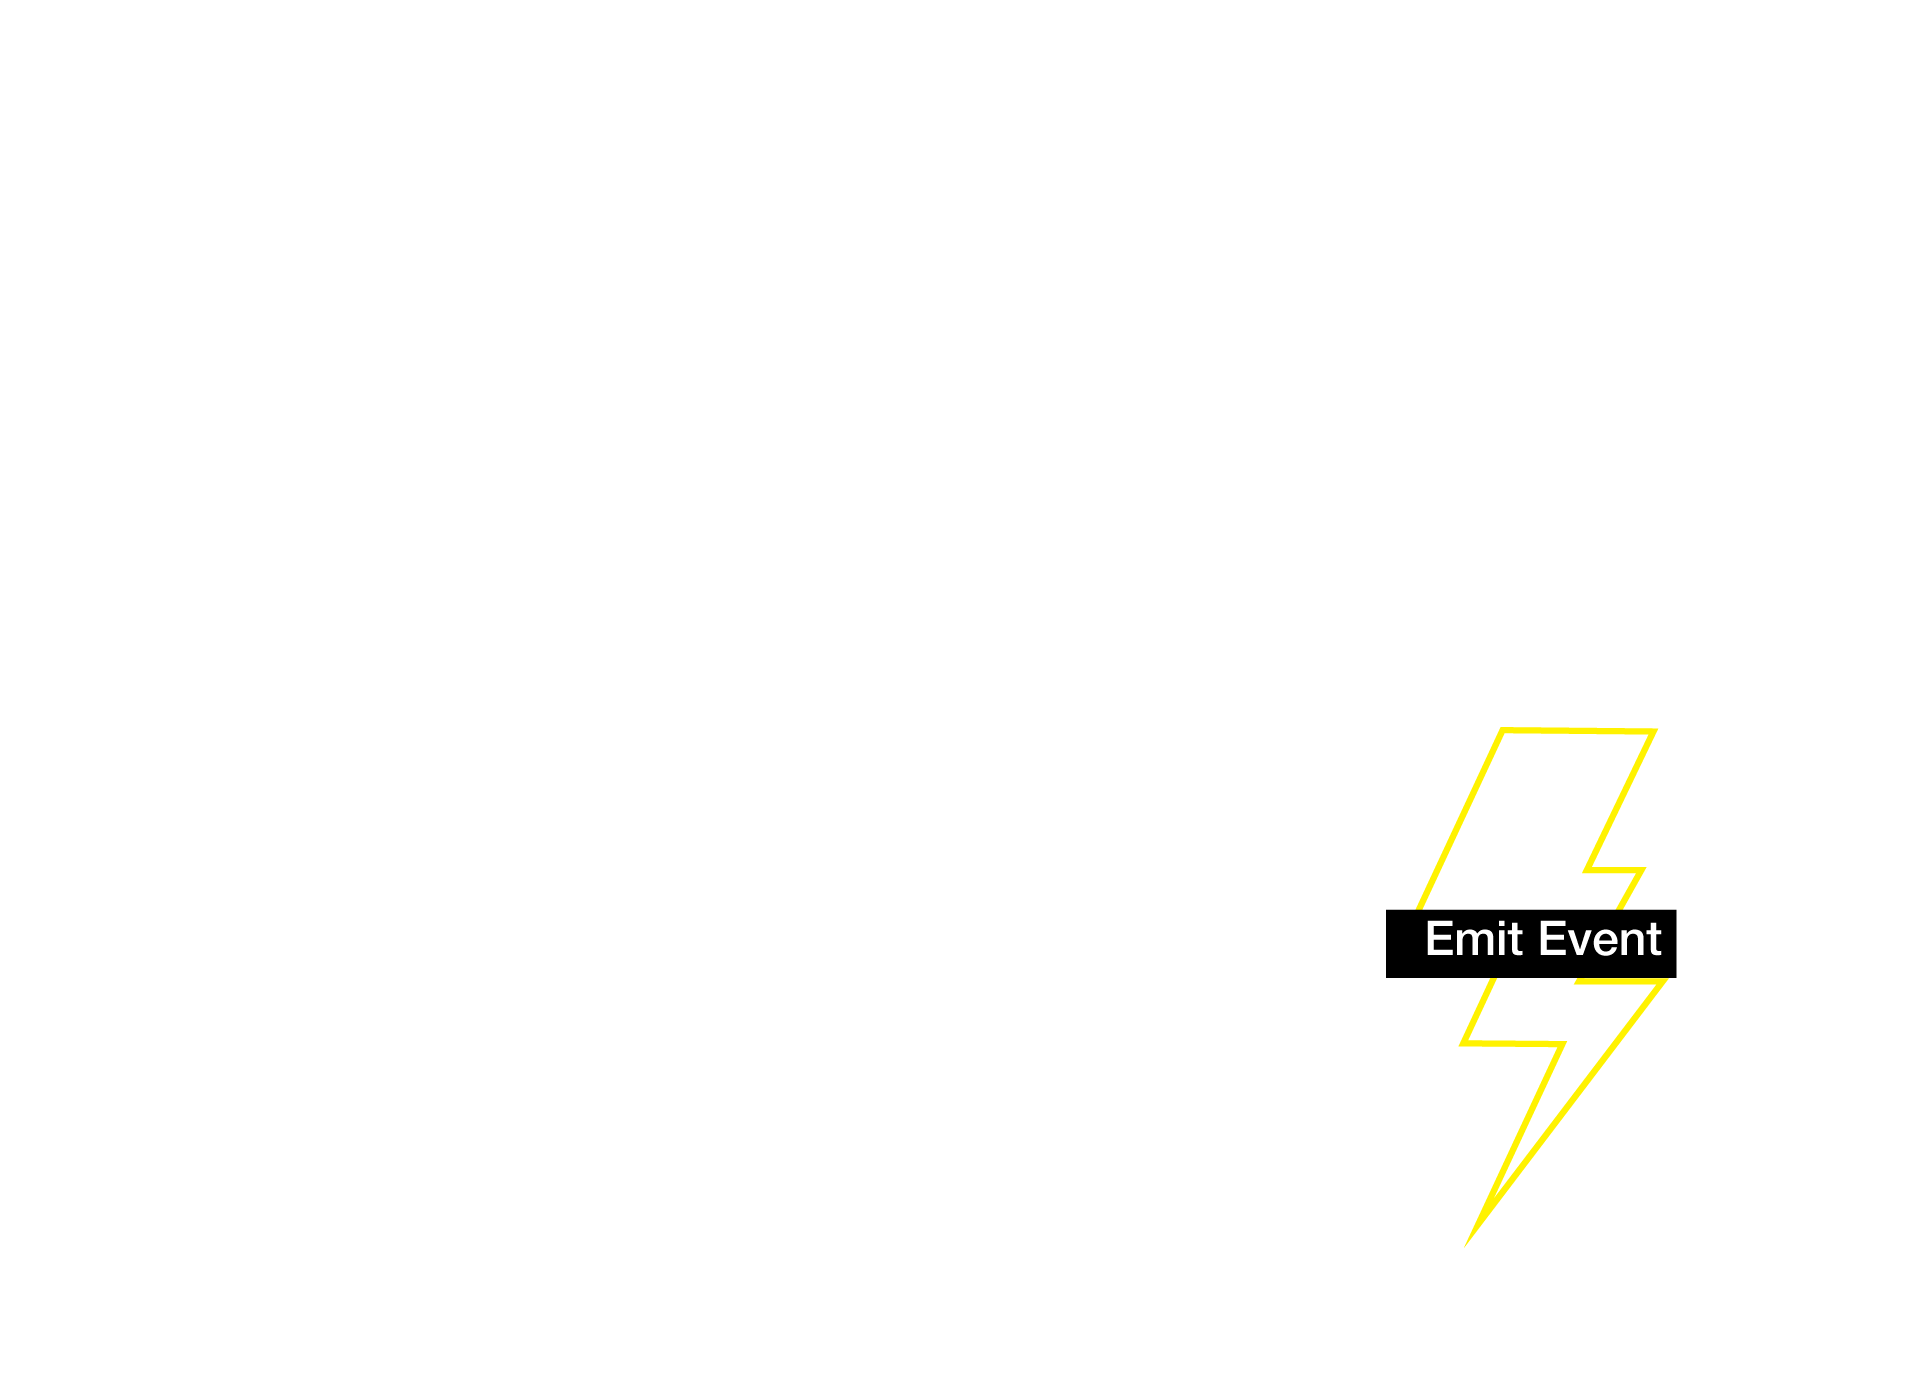
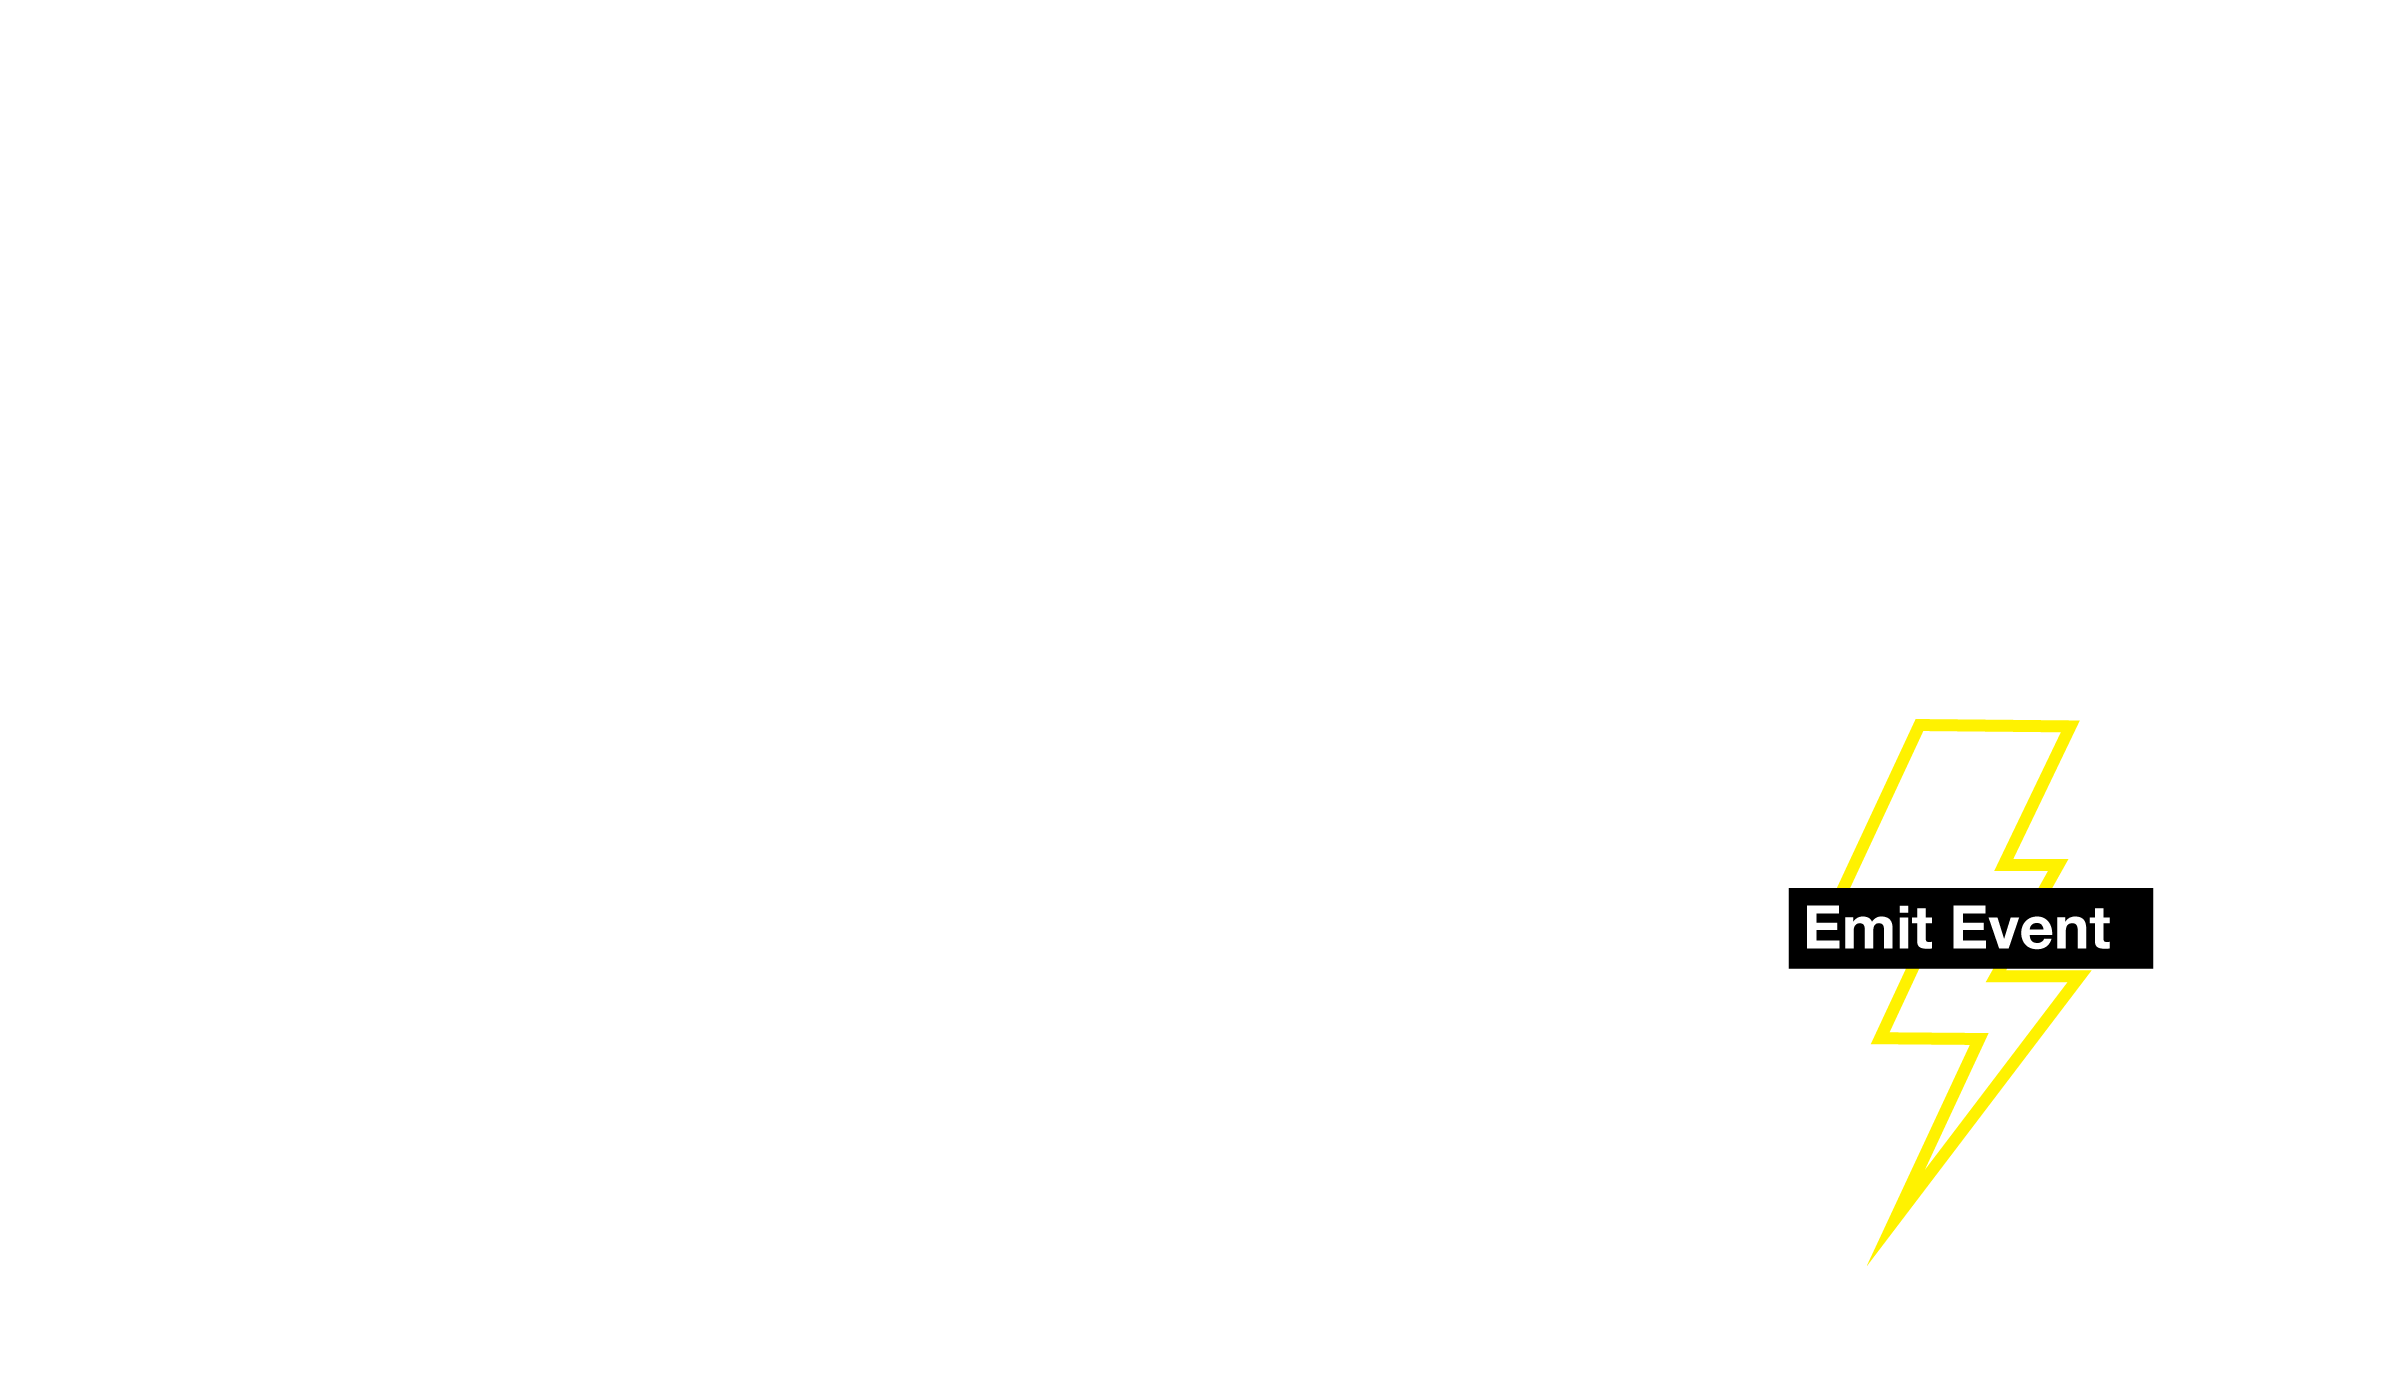
updated complex forms slides

Changed region(s): [[0.7188, 0.4914, 0.9062, 0.8907]]

diff --git a/ng-meetup/2018/03/ngrx-complex-forms/index.html b/ng-meetup/2018/03/ngrx-complex-forms/index.html
@@ -62,12 +62,12 @@
 
             <section data-background="#000">
                 <h2>Container - Presentation</h2>
-                <img src="images/Container-4.png" class="plain">
+                <img src="images/Container.png" class="plain">
             </section>
 
             <section data-background="#000">
                 <h2>NgRx Entity</h2>
-                <img src="images/NGRXEntity-2.png" class="plain">
+                <img src="images/NGRXEntity.png" class="plain">
             </section>
 
             <section data-background="#000">
@@ -116,7 +116,7 @@
 
             <section>
                 <h2>Form Basics</h2>
-                <img src="images/EmitEvent-2.png" class="plain">
+                <img src="images/EmitEvent.png" class="plain">
             </section>
 
             <section>
@@ -151,7 +151,7 @@
 
             <section>
                 <h2>Form Basics</h2>
-                <img src="images/EmitEvent-2.png" class="plain">
+                <img src="images/EmitEvent.png" class="plain">
             </section>
 
             <section data-background="#000">
@@ -172,11 +172,6 @@
             <section>
                 <h3>So now what?</h3>
                 <img src="images/head-scratcher.jpg" class="plain">
-            </section>
-
-            <section>
-                <h3>LineItems Form</h3>
-                <img src="images/order-form.png" class="plain">
             </section>
 
             <section>
@@ -204,6 +199,10 @@
                 <img src="images/serenity.jpg" class="plain">
             </section>
 
+            <section data-background="#000">
+                <h2>Code</h2>
+            </section>
+
             <section>
                 <h3>Summary</h3>
                 <ul>
@@ -217,10 +216,9 @@
             <section data-background="images/briebug-bg.jpg" data-background-color="#ffffff">
                 <h3>BrieBug - What We do</h3>
                 <ul>
-                    <li>Angular Training</li>
                     <li>Architecture Reviews</li>
-                    <li>Complex Applications</li>
-                    <li>Upgrade old technology</li>
+                    <li>Customized Training</li>
+                    <li>Angular Consulting</li>
                 </ul>
                 <div class="logo">
                     <img src="images/briebug-logo.svg" class="plain">
@@ -230,12 +228,7 @@
             <section data-background="images/briebug-bg.jpg" data-background-color="#ffffff">
                 <div>
                     <small>
-                        <a href="http://briebug.github.io/presentations/ng-meetup/2018/03/ngrx-complex-forms">http://briebug.github.io/presentations/ng-meetup/2018/03/ngrx-complex-forms</a>
-                    </small>
-                </div>
-                <div>
-                    <small>
-                        <a href="https://github.com/briebug/ngrx-complex-forms">https://github.com/briebug/ngrx-complex-forms</a>
+                        <a href="http://confsnap.com/#/event/ng-conf-18/131">http://confsnap.com/#/event/ng-conf-18/131</a>
                     </small>
                 </div>
                 <div>
